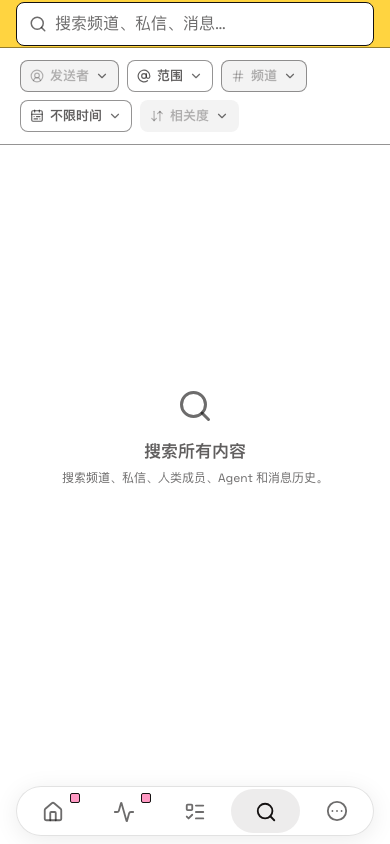
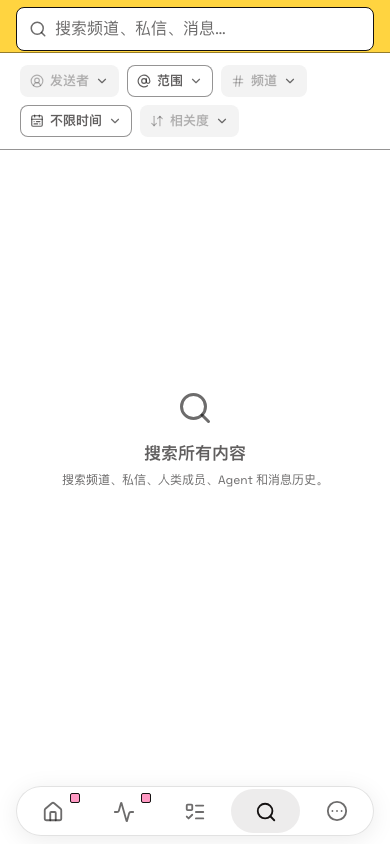
docs: verify final PWA sampling fix and UI release deployment

diff --git a/docs/evo/status.zh-CN.md b/docs/evo/status.zh-CN.md
@@ -9,7 +9,7 @@
 - `main` 是当前 Loom；`evo` 已晋升并移除；`chatbox` 独立承载 `rah/main` 导入，不参与 Loom 构建。见[分支记录](branch-promotion.zh-CN.md)。
 - 唯一产品前端为 `frontends/raft`。旧复刻 UI 和 `apps/console` 已退役，不恢复其路由、构建或测试入口。
 - 保留部署标签 `com.loom.evo`、数据目录 `~/.loom/evo`、日志目录及频道主目录 `~/.loom/channel-workspaces/`。这些名称不是旧分支残留任务，不能为整洁搬迁数据。
-- 正式服务已在`007beae2`推送后备份并平滑重启，schema91；[部署收据](evidence/2026-10-30-pokemon-avatars/deployment.json)确认账本／Role／实例／偏好保持，LAN/Tailnet原CA验证通过。[正式页面](evidence/2026-10-30-pokemon-avatars/formal-page.json)在1440及390视口确认新buildId、539项部署素材hash、分批展示、形态搜索、原图512px与immutable缓存；无配置写入和页面异常，保护表保持。此前[64b0990c PWA/Tasks/草稿修复](evidence/2026-10-30-ui-state-repair/README.md)证据保留，实体PWA系统栏不作通过宣称。
+- 正式服务已在`bb5305e4`推送后备份并平滑重启，schema91；[部署收据](evidence/2026-10-30-pwa-member-repair/deployment.json)确认账本／Role／实例／偏好保持，LAN/Tailnet原CA验证通过。[正式页面](evidence/2026-10-30-pwa-member-repair/formal-page.json)在390视口确认hex chrome、5px取色边缘与未被遮挡的搜索输入、一次document加载及Task返回保持；1440／390确认原生44px头像选择、8／4列与实际PNG加载。无配置写入和页面异常，保护表保持。此前头像/PWA修复和初次1px方案证据仍保留，**鸿蒙/iOS实体PWA系统栏尚未验收**。
 - HTTP 4176、LAN HTTPS 4178 与 Tailnet HTTPS 4178 在既有明确地址监听；同一 Core、原本地 CA、无配对、保留 Host/Origin 校验。本轮两个 HTTPS 首页经原 CA 校验，三个 HTTP 入口均200；页面/API/Service Worker及负向校验见此前[Tailnet入口证据](evidence/2026-10-28-tailnet-https/README.md)。远端实体手机与关闭页面后的推送未在本批重验；部署前仍须读取实际配置。
 
 ## 2. 当前状态
